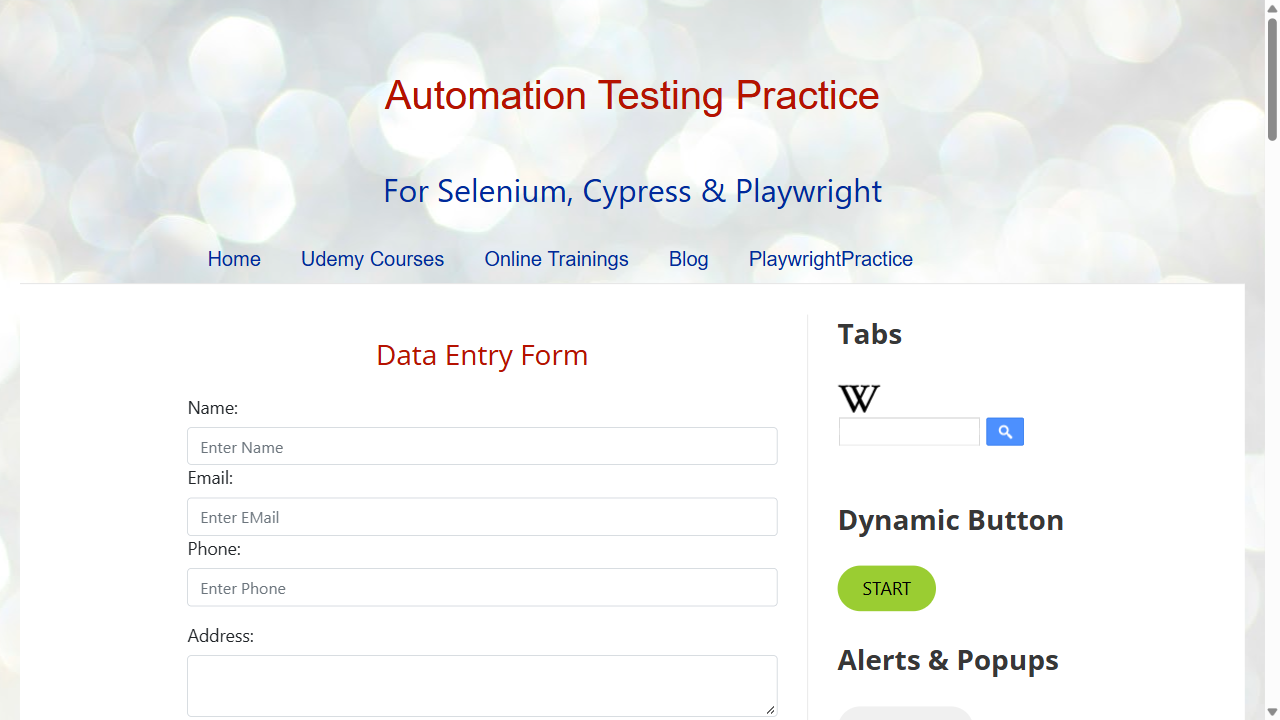
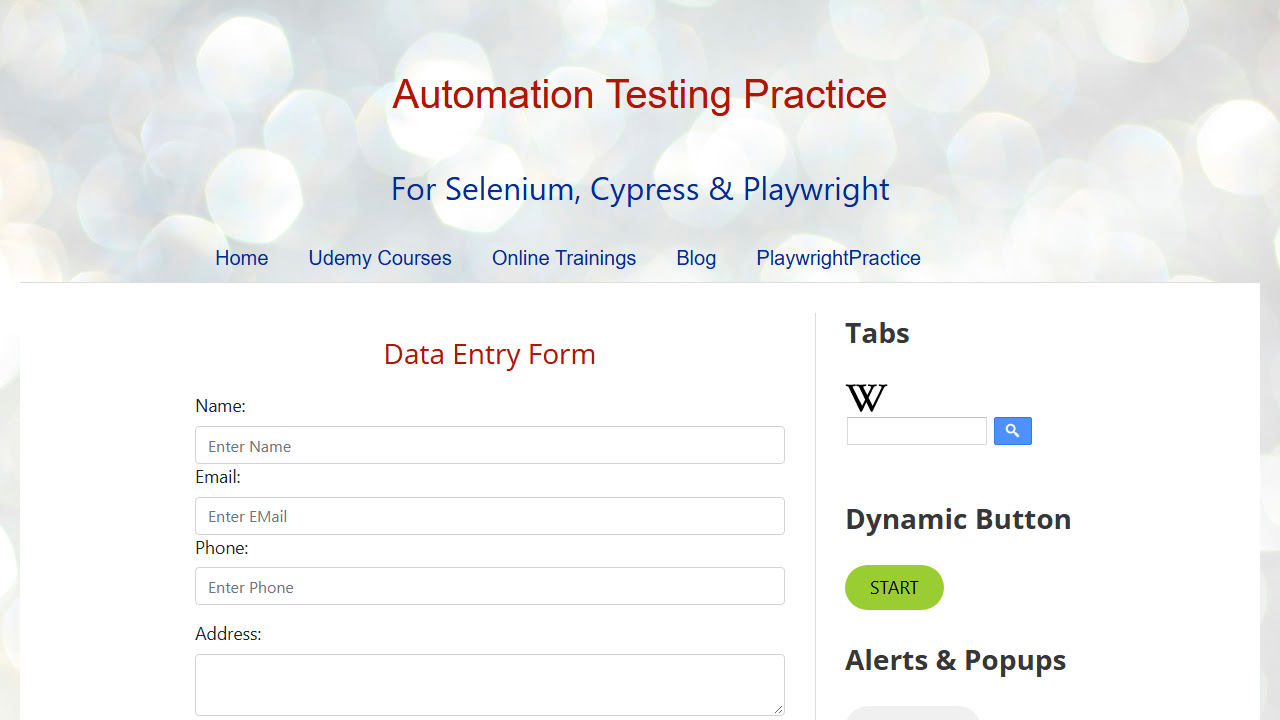
run smoke test

diff --git a/Pages/LoginPom.ts b/Pages/LoginPom.ts
@@ -1,0 +1,24 @@
+import { test,Page,Locator } from "@playwright/test";
+
+export class LoginPom
+{
+private readonly page:Page;
+private readonly Username: Locator;
+private readonly Password: Locator;
+private readonly Submit:Locator;
+
+constructor(page:Page){
+
+    this.page = page;
+    this.Username = page.getByLabel('Username');
+    this.Password = page.getByLabel('Password');
+    this.Submit = page.getByRole('button',{name: 'Submit'});
+}
+ async Login(Username:string,Password:string)
+ {
+    await this.Username.fill(Username);
+    await this.Password.fill(Password);
+    await this.Submit.click();
+ }
+
+}

diff --git a/tests/LoginPom1.spec.ts b/tests/LoginPom1.spec.ts
@@ -1,0 +1,12 @@
+import{test,expect} from '@playwright/test';
+import { LoginPom } from '../Pages/LoginPom';
+
+test('LoginPomtest',async({page})=>{
+
+   const loginPage=new LoginPom(page);
+
+   await page.goto('https://practicetestautomation.com/practice-test-login/');
+
+   await loginPage.Login ('student','Password123')
+
+})

diff --git a/tests/Screenshots1.spec.ts b/tests/Screenshots1.spec.ts
@@ -1,0 +1,12 @@
+import{test,expect} from'@playwright/test';
+
+test('Screenshots',async({page})=>{
+
+    await page.goto('https://www.google.com/')
+
+    //await page.screenshot({path:'Screenshots/Googlepage.png'});
+
+    await page.screenshot({path:'Screenshots/Googlefull.png',fullPage:true})
+
+
+})
